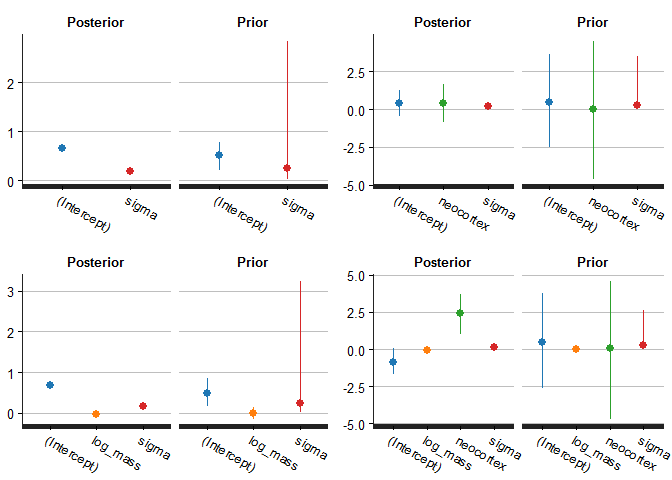
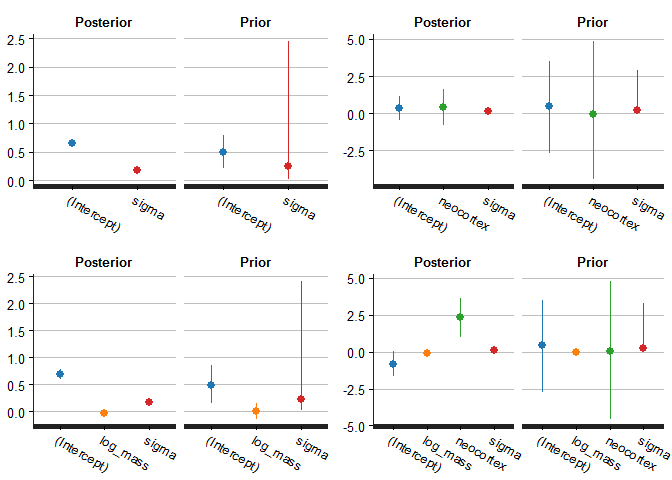
put the plot back

diff --git a/06-InformationCriteria.md b/06-InformationCriteria.md
@@ -114,14 +114,14 @@ summary(m1)
 #> (Intercept)   0.6    0.0  0.6    0.6   0.6   0.7   0.7    
 #> sigma         0.2    0.0  0.1    0.2   0.2   0.2   0.3    
 #> mean_PPD      0.6    0.1  0.5    0.6   0.6   0.7   0.8    
-#> log-posterior 3.7    1.0  0.9    3.3   4.0   4.5   4.7    
+#> log-posterior 3.8    1.0  1.0    3.4   4.1   4.5   4.7    
 #> 
 #> Diagnostics:
 #>               mcse Rhat n_eff
-#> (Intercept)   0.0  1.0  2141 
-#> sigma         0.0  1.0  2197 
-#> mean_PPD      0.0  1.0  2854 
-#> log-posterior 0.0  1.0  1685 
+#> (Intercept)   0.0  1.0  2892 
+#> sigma         0.0  1.0  2046 
+#> mean_PPD      0.0  1.0  3214 
+#> log-posterior 0.0  1.0  1447 
 #> 
 #> For each parameter, mcse is Monte Carlo standard error, n_eff is a crude measure of effective sample size, and Rhat is the potential scale reduction factor on split chains (at convergence Rhat=1).
 summary(m2)
@@ -136,19 +136,19 @@ summary(m2)
 #> 
 #> Estimates:
 #>                 mean   sd   2.5%   25%   50%   75%   97.5%
-#> (Intercept)    0.4    0.5 -0.6    0.0   0.3   0.7   1.4   
-#> neocortex      0.4    0.7 -1.1   -0.1   0.4   0.9   1.8   
+#> (Intercept)    0.4    0.5 -0.6    0.0   0.4   0.7   1.3   
+#> neocortex      0.4    0.7 -1.0   -0.1   0.4   0.9   1.9   
 #> sigma          0.2    0.0  0.1    0.2   0.2   0.2   0.3   
 #> mean_PPD       0.6    0.1  0.5    0.6   0.6   0.7   0.8   
-#> log-posterior  2.4    1.3 -0.9    1.8   2.8   3.4   3.9   
+#> log-posterior  2.4    1.3 -0.8    1.8   2.8   3.3   3.9   
 #> 
 #> Diagnostics:
 #>               mcse Rhat n_eff
-#> (Intercept)   0.0  1.0  2819 
-#> neocortex     0.0  1.0  2786 
-#> sigma         0.0  1.0  2322 
-#> mean_PPD      0.0  1.0  3292 
-#> log-posterior 0.0  1.0  1739 
+#> (Intercept)   0.0  1.0  2845 
+#> neocortex     0.0  1.0  2849 
+#> sigma         0.0  1.0  2704 
+#> mean_PPD      0.0  1.0  3359 
+#> log-posterior 0.0  1.0  1859 
 #> 
 #> For each parameter, mcse is Monte Carlo standard error, n_eff is a crude measure of effective sample size, and Rhat is the potential scale reduction factor on split chains (at convergence Rhat=1).
 summary(m3)
@@ -166,16 +166,16 @@ summary(m3)
 #> (Intercept)    0.7    0.1  0.6    0.7   0.7   0.7   0.8   
 #> log_mass       0.0    0.0 -0.1    0.0   0.0   0.0   0.0   
 #> sigma          0.2    0.0  0.1    0.2   0.2   0.2   0.3   
-#> mean_PPD       0.6    0.1  0.5    0.6   0.6   0.7   0.8   
+#> mean_PPD       0.7    0.1  0.5    0.6   0.7   0.7   0.8   
 #> log-posterior  3.3    1.3  0.0    2.7   3.6   4.2   4.8   
 #> 
 #> Diagnostics:
 #>               mcse Rhat n_eff
-#> (Intercept)   0.0  1.0  2410 
-#> log_mass      0.0  1.0  2674 
-#> sigma         0.0  1.0  2301 
-#> mean_PPD      0.0  1.0  3012 
-#> log-posterior 0.0  1.0  1745 
+#> (Intercept)   0.0  1.0  2771 
+#> log_mass      0.0  1.0  3016 
+#> sigma         0.0  1.0  2263 
+#> mean_PPD      0.0  1.0  3259 
+#> log-posterior 0.0  1.0  1729 
 #> 
 #> For each parameter, mcse is Monte Carlo standard error, n_eff is a crude measure of effective sample size, and Rhat is the potential scale reduction factor on split chains (at convergence Rhat=1).
 summary(m4)
@@ -190,21 +190,21 @@ summary(m4)
 #> 
 #> Estimates:
 #>                 mean   sd   2.5%   25%   50%   75%   97.5%
-#> (Intercept)   -0.8    0.5 -1.9   -1.2  -0.9  -0.5   0.2   
+#> (Intercept)   -0.8    0.5 -1.8   -1.2  -0.8  -0.5   0.2   
 #> neocortex      2.4    0.8  0.7    1.9   2.4   2.9   3.9   
 #> log_mass      -0.1    0.0 -0.1   -0.1  -0.1  -0.1   0.0   
 #> sigma          0.1    0.0  0.1    0.1   0.1   0.2   0.2   
 #> mean_PPD       0.7    0.0  0.6    0.6   0.7   0.7   0.7   
-#> log-posterior  6.1    1.5  2.3    5.3   6.4   7.2   8.0   
+#> log-posterior  6.1    1.5  2.2    5.4   6.4   7.2   8.0   
 #> 
 #> Diagnostics:
 #>               mcse Rhat n_eff
-#> (Intercept)   0.0  1.0  1992 
-#> neocortex     0.0  1.0  1929 
-#> log_mass      0.0  1.0  2003 
-#> sigma         0.0  1.0  1954 
-#> mean_PPD      0.0  1.0  3331 
-#> log-posterior 0.0  1.0  1531 
+#> (Intercept)   0.0  1.0  1833 
+#> neocortex     0.0  1.0  1776 
+#> log_mass      0.0  1.0  1885 
+#> sigma         0.0  1.0  1835 
+#> mean_PPD      0.0  1.0  2680 
+#> log-posterior 0.0  1.0  1478 
 #> 
 #> For each parameter, mcse is Monte Carlo standard error, n_eff is a crude measure of effective sample size, and Rhat is the potential scale reduction factor on split chains (at convergence Rhat=1).
 ```
@@ -235,17 +235,17 @@ p4 <- posterior_vs_prior(m4) + scale_color_manual(values = d3_colors[c(1:4)])
 cowplot::plot_grid(p1, p2, p3, p4)
 ```
 
-![](06-InformationCriteria_files/figure-markdown_github/unnamed-chunk-4-1.png)
+![](06-InformationCriteria_files/figure-markdown_github/posterior-vs-prior-1.png)
 
 Model comparison with WAIC says the fourth one is to be preferred. Why?
 
 ``` r
 loo::compare(loo::waic(m1), loo::waic(m2), loo::waic(m3), loo::waic(m4))
 #>               waic  se_waic elpd_waic se_elpd_waic p_waic se_p_waic
-#> loo::waic(m4) -17.5   5.1     8.8       2.5          2.7    0.7    
-#> loo::waic(m3)  -9.5   4.4     4.7       2.2          1.8    0.4    
-#> loo::waic(m1)  -9.0   4.1     4.5       2.0          1.2    0.3    
-#> loo::waic(m2)  -7.7   3.6     3.9       1.8          1.8    0.3
+#> loo::waic(m4) -17.7   5.0     8.8       2.5          2.7    0.7    
+#> loo::waic(m3)  -9.5   4.5     4.7       2.2          1.9    0.4    
+#> loo::waic(m1)  -9.1   4.1     4.6       2.0          1.2    0.3    
+#> loo::waic(m2)  -7.7   3.6     3.8       1.8          1.8    0.3
 ```
 
 Manual AIC calculation
@@ -361,9 +361,10 @@ dim(log_lik(m4))
 # likelihood of each oberservation
 each_lppd <- log_lik(m4) %>% exp %>% colMeans %>% log 
 each_lppd
-#>  [1]  0.8185923  0.7942735  1.0585642  0.1130944  0.8695554  0.9249208
-#>  [7] -0.4281189  1.0230951  0.6303338 -0.2333847  0.5869625  1.0674807
-#> [13]  1.0225198  0.9688847  0.9630172  0.4679343  0.8691156
+#>  [1]  0.82571372  0.79917015  1.06284272  0.08967678  0.85809784
+#>  [6]  0.92250793 -0.42511977  1.02580855  0.65080175 -0.26678263
+#> [11]  0.56790313  1.07273123  1.02725011  0.97315528  0.96767992
+#> [16]  0.48353934  0.86209519
 ```
 
 We also need a penalty term. Here, it's the effective number of parameters (p\_waic). Each observation contributes to the penalty term, using the variance of its log-likelihoods.
@@ -373,9 +374,9 @@ We also need a penalty term. Here, it's the effective number of parameters (p\_w
 # observation 
 each_p_waic <- log_lik(m4) %>% apply(2, var)
 each_p_waic
-#>  [1] 0.23372414 0.06659436 0.03967602 0.15767292 0.12206765 0.10129344
-#>  [7] 0.76828599 0.04888031 0.14743836 0.35797400 0.12923174 0.03589903
-#> [13] 0.04605492 0.06815255 0.06189745 0.26078581 0.09703637
+#>  [1] 0.20005687 0.06593731 0.04132520 0.16133253 0.11968305 0.10756075
+#>  [7] 0.70470686 0.05237387 0.13511036 0.36832509 0.12762613 0.03882063
+#> [13] 0.04876040 0.07018034 0.06361188 0.25044359 0.09896701
 ```
 
 The WAIC is the difference in total lppd and total p\_waic on the deviance scale.
@@ -383,18 +384,18 @@ The WAIC is the difference in total lppd and total p\_waic on the deviance scale
 ``` r
 lppd <- sum(each_lppd)
 lppd
-#> [1] 11.51684
+#> [1] 11.49707
 p_waic <- sum(each_p_waic)
 p_waic
-#> [1] 2.742665
+#> [1] 2.654822
 waic <- -2 * (lppd - p_waic)
 waic
-#> [1] -17.54835
+#> [1] -17.6845
 
 # skip the summing step
 each_waic <- -2 * (each_lppd - each_p_waic)
 sum(each_waic)
-#> [1] -17.54835
+#> [1] -17.6845
 ```
 
 But because each point contributes information to the lppd and p\_waic calculations, we can compute a standard error on these numbers.
@@ -403,9 +404,9 @@ But because each point contributes information to the lppd and p\_waic calculati
 # standard error of the waics
 se <- function(xs) sqrt(length(xs) * var(xs))
 se(each_p_waic)
-#> [1] 0.7409574
+#> [1] 0.6824496
 se(each_waic)
-#> [1] 5.080419
+#> [1] 5.037537
 ```
 
 These calculations match the estimates from the loo package. The `loo::waic` estimates use expected lppd (elpd) which already subtracts p\_waic from lppd. It's *expected* because it is the log-likelihood of the in-sample data adjusted with a penalty term. The resulting value is an expectation for out-of-sample data.
@@ -413,9 +414,9 @@ These calculations match the estimates from the loo package. The `loo::waic` est
 ``` r
 # manual elpd_waic
 lppd - p_waic
-#> [1] 8.774176
+#> [1] 8.842249
 se(each_lppd - each_p_waic)
-#> [1] 2.54021
+#> [1] 2.518768
 
 loo::waic(m4)
 #> Computed from 4000 by 17 log-likelihood matrix
@@ -423,7 +424,7 @@ loo::waic(m4)
 #>           Estimate  SE
 #> elpd_waic      8.8 2.5
 #> p_waic         2.7 0.7
-#> waic         -17.5 5.1
+#> waic         -17.7 5.0
 #> Warning: 1 (5.9%) p_waic estimates greater than 0.4.
 #> We recommend trying loo() instead.
 ```
@@ -493,10 +494,10 @@ model_summary %>%
 
 | Formula                            |  Deviance|     AIC|    waic|  se\_waic|  elpd\_waic|  se\_elpd\_waic|  p\_waic|  se\_p\_waic|  diff\_waic|  weight|
 |:-----------------------------------|---------:|-------:|-------:|---------:|-----------:|---------------:|--------:|------------:|-----------:|-------:|
-| kcal.per.g ~ neocortex + log\_mass |    -25.36|  -17.36|  -17.55|      5.08|        8.77|            2.54|     2.74|         0.74|        0.00|    0.96|
-| kcal.per.g ~ log\_mass             |    -14.74|   -8.74|   -9.46|      4.40|        4.73|            2.20|     1.85|         0.42|       -8.09|    0.02|
-| kcal.per.g ~ 1                     |    -12.46|   -8.46|   -9.01|      4.08|        4.51|            2.04|     1.25|         0.31|       -8.54|    0.01|
-| kcal.per.g ~ neocortex             |    -12.87|   -6.87|   -7.74|      3.63|        3.87|            1.82|     1.79|         0.31|       -9.81|    0.01|
+| kcal.per.g ~ neocortex + log\_mass |    -25.36|  -17.36|  -17.68|      5.04|        8.84|            2.52|     2.65|         0.68|        0.00|    0.96|
+| kcal.per.g ~ log\_mass             |    -14.74|   -8.74|   -9.48|      4.46|        4.74|            2.23|     1.90|         0.44|       -8.21|    0.02|
+| kcal.per.g ~ 1                     |    -12.46|   -8.46|   -9.15|      4.10|        4.57|            2.05|     1.22|         0.30|       -8.54|    0.01|
+| kcal.per.g ~ neocortex             |    -12.87|   -6.87|   -7.69|      3.63|        3.85|            1.81|     1.84|         0.32|       -9.99|    0.01|
 
 Remember what the book says about these weights:
 
